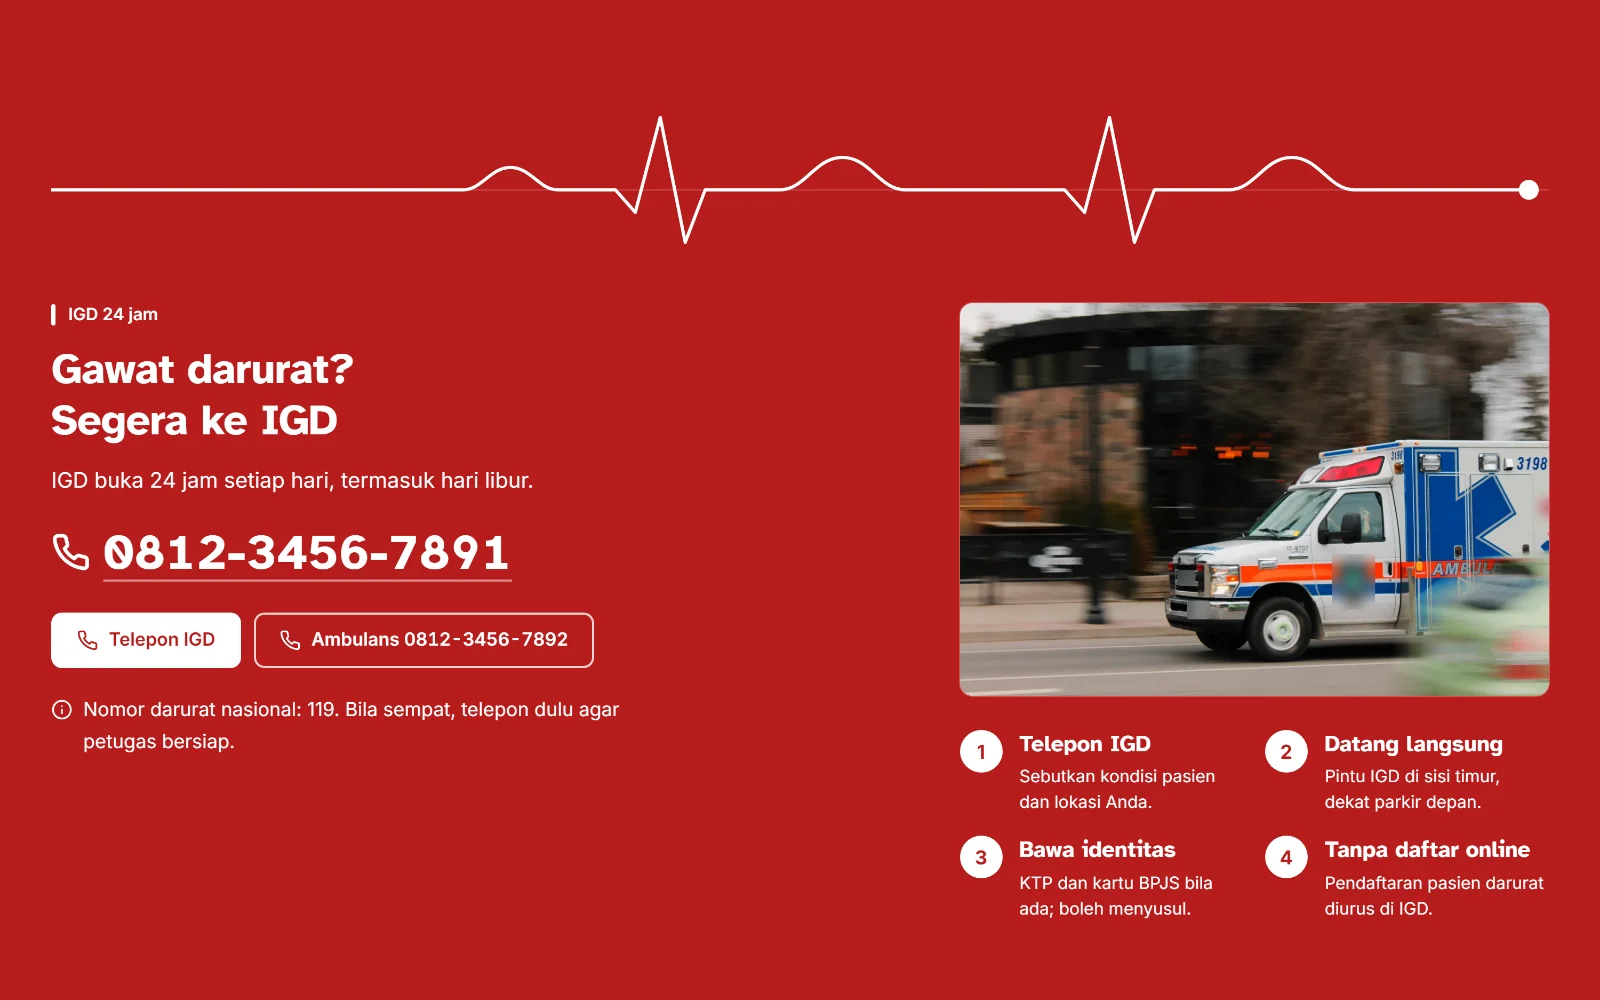
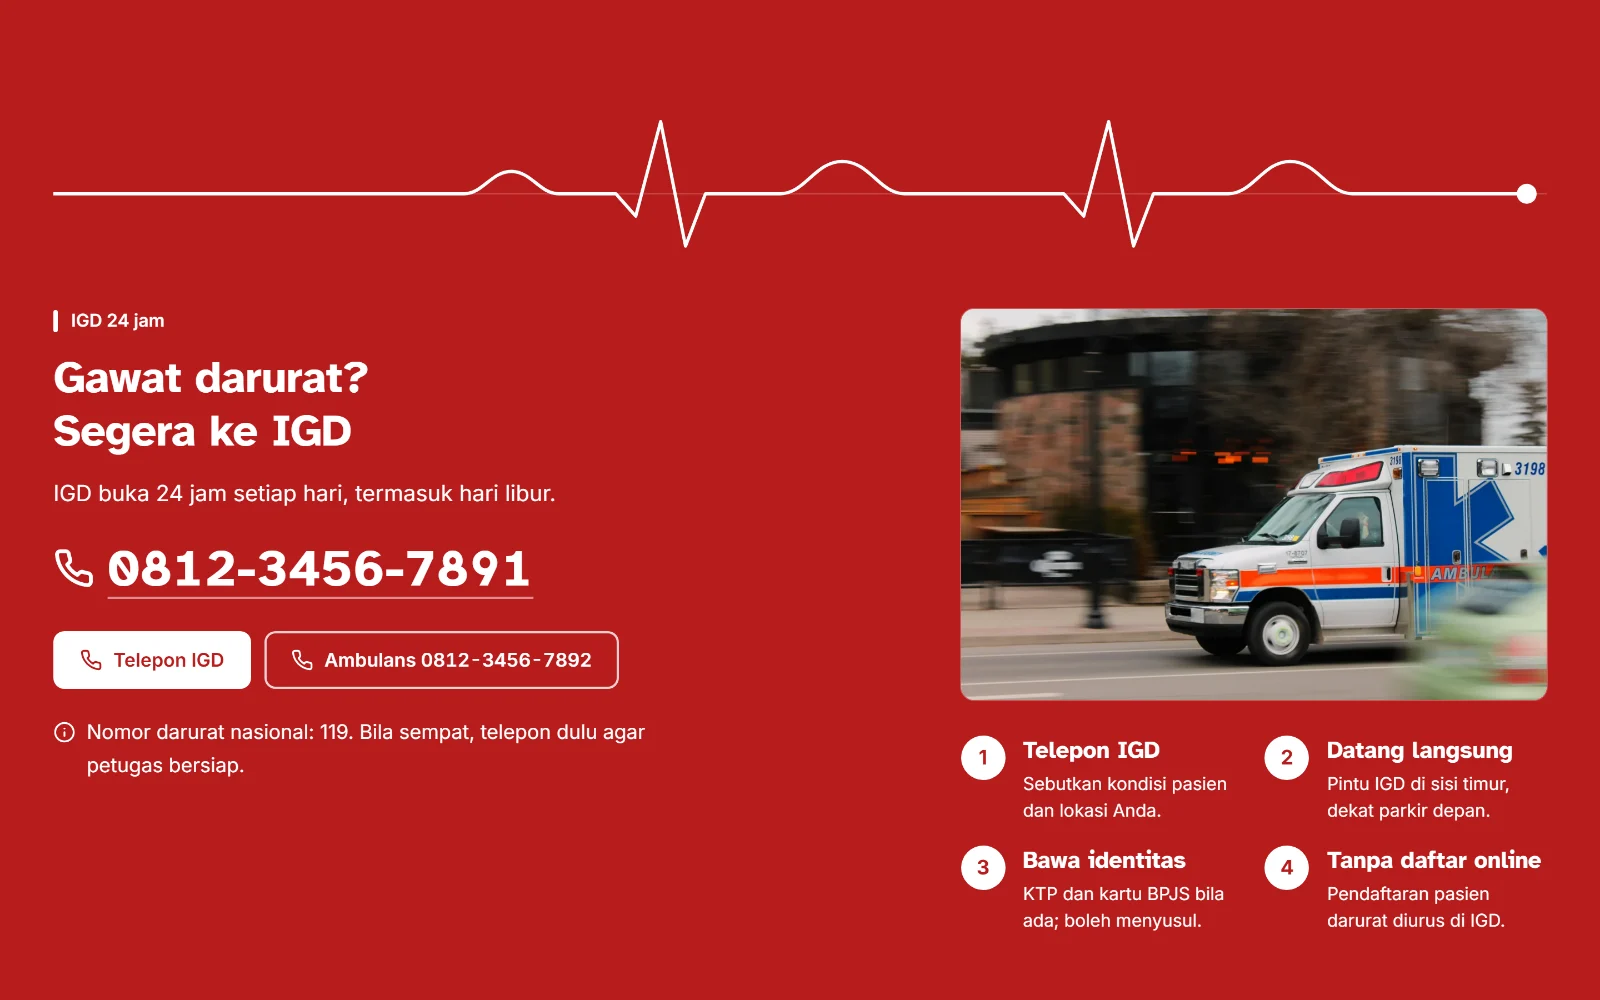
fix(templates): clone retouches instead of blur smudges in five photo-hero templates
Logos and brand text in some demo photos had been hidden with blur patches, which read as
smudges on screen. They are now removed with clone retouches from the original Unsplash photos,
with the same crop and colour:

- Sparring Padel: tournament photo (shirt print, shirt logo, racket stripes), gallery smash
  (banner, post lettering, shorts print) and gallery serve (racket frame text).
- PayNow: hero (T-shirt lettering) and security photo (music app icon on the phone screen).
- SpecialistPlus: CT (injector brand, jacket emblem, wristband number) and lab (scanner logo,
  analyser label).
- MediCare General: ambulance, class 1 and class 2 wards, radiology.
- SmashHall: court (wall banner) and training gallery photo (event banner).

The retouched photos use new `-v2` file names, because Cloudflare keeps each image URL for
30 days. The old files stay for site content that still links them. The MediCare catalog gallery
image (IGD band) is recaptured with the clean ambulance under its existing name.

diff --git a/src/templates/paynow/photos.ts b/src/templates/paynow/photos.ts
@@ -1,6 +1,7 @@
 // Registry foto demo PayNow (dompet digital & payment gateway fiktif). Semua foto asli dari Unsplash (Unsplash License,
-// bukan Unsplash+), WebP teroptimasi, kredit di public/assets/templates/photos/CREDITS.md (section "PayNow"). Merek
-// bank/e-wallet/kartu dan kode QR asli yang masih terbaca dikaburkan atau dipotong; foto TIDAK diubah ke SVG.
+// bukan Unsplash+), WebP teroptimasi, kredit di public/assets/templates/photos/CREDITS.md (section "PayNow"). Tulisan
+// di kaus (hero) dan ikon aplikasi musik di layar HP (keamanan) dihapus dengan retus klon (tanpa noda blur); merek
+// bank/e-wallet/kartu dan kode QR asli yang masih terbaca dipotong; foto TIDAK diubah ke SVG.
 //
 // Konvensi file (kit/photos.ts):
 //   hero          → `<kunci>-1920.webp` + `-1280.webp` + `-800.webp` (16:9 1920×1080, latar di bawah lapisan gradasi)
@@ -12,7 +13,7 @@ import { definePhotos, type KitPhotoSpec, type PhotoSet } from '../kit/photos';
 
 const DIR = '/assets/templates/photos';
 
-const HERO: readonly KitPhotoSpec[] = [['paynow-hero', 1920, 1080, 'Perempuan memeriksa ponsel di depan kios makanan yang terang pada malam hari']];
+const HERO: readonly KitPhotoSpec[] = [['paynow-hero-v2', 1920, 1080, 'Perempuan memeriksa ponsel di depan kios makanan yang terang pada malam hari']];
 
 const BASE = definePhotos({
   scenes: [
@@ -20,7 +21,7 @@ const BASE = definePhotos({
     ['paynow-transfer', 960, 1200, 'Empat perempuan berkerudung melihat layar ponsel bersama-sama'],
     ['paynow-tagihan', 960, 1200, 'Perempuan berkacamata duduk santai di kursi sambil memegang ponsel di depan rak buku'],
     ['paynow-topup', 960, 1200, 'Perempuan berkacamata tertawa sambil melihat layar ponselnya di luar ruangan'],
-    ['paynow-keamanan', 960, 1200, 'Tangan memegang ponsel dengan layar kunci menyala di tengah lampu kota malam hari'],
+    ['paynow-keamanan-v2', 960, 1200, 'Tangan memegang ponsel dengan layar kunci menyala di tengah lampu kota malam hari'],
     ['paynow-unduh', 960, 1200, 'Perempuan berkerudung tersenyum memegang ponsel dan minuman di bawah lampion merah'],
     ['paynow-kopi', 1200, 800, 'Barista menuangkan susu ke gelas kopi di samping mesin espreso'],
     ['paynow-warung', 1200, 800, 'Beberapa perempuan berkerudung makan dan membayar di warung makan pinggir jalan'],
@@ -60,5 +61,5 @@ export const PAYNOW_PHOTOS: PhotoSet = Object.freeze({
   keys: Object.freeze([...HERO.map((spec) => spec[0]), ...BASE.keys]),
 });
 
-/** Path foto demo untuk defaultContent, mis. `paynowPhoto('hero')` → `/assets/templates/photos/paynow-hero-1920.webp`. */
+/** Path foto demo untuk defaultContent, mis. `paynowPhoto('hero-v2')` → `/assets/templates/photos/paynow-hero-v2-1920.webp`. */
 export const paynowPhoto = (name: string): string => PAYNOW_PHOTOS.src(`paynow-${name}`);

diff --git a/src/templates/medicare-general/photos.ts b/src/templates/medicare-general/photos.ts
@@ -1,7 +1,9 @@
 // Registry foto demo MediCare General (RS MediCare General, rumah sakit umum fiktif di Semarang). Semua foto asli dari
 // Unsplash (Unsplash License, bukan Unsplash+), WebP teroptimasi, kredit di public/assets/templates/photos/CREDITS.md
 // (section "MediCare General"). Tanpa nama/merek rumah sakit yang terbaca, tanpa pasien yang tampak kesakitan, tanpa
-// jarum atau darah. Dokter di demo TIDAK diberi foto (inisial saja); orang di foto bukan tokoh di demo.
+// jarum atau darah. Dokter di demo TIDAK diberi foto (inisial saja); orang di foto bukan tokoh di demo. Merek di foto
+// IGD, kamar kelas 1 & 2, dan radiologi dihapus dengan retus klon (tanpa blur, kunci `-v2`: Cloudflare menyimpan tiap
+// URL gambar 30 hari, file lama tetap ada).
 //
 // Konvensi file (kit/photos.ts):
 //   hero      → `<kunci>-1920.webp` + `-1280.webp` + `-800.webp` (16:9 1920×1080; layar lebar menutupi seluruh hero,
@@ -19,14 +21,14 @@ const HERO: readonly KitPhotoSpec[] = [
 const BASE = definePhotos({
   scenes: [
     ['medicare-general-pendaftaran', 1200, 800, 'Ruang tunggu dengan sofa biru toska dan jendela loket pendaftaran'],
-    ['medicare-general-igd', 1200, 800, 'Ambulans putih bergaris oranye dan biru melaju di jalan kota'],
+    ['medicare-general-igd-v2', 1200, 800, 'Ambulans putih bergaris oranye dan biru melaju di jalan kota'],
     ['medicare-general-kamar-vvip', 1200, 800, 'Kamar rawat inap dengan ranjang pasien, meja kerja, dan lukisan di dinding'],
     ['medicare-general-kamar-vip', 1200, 800, 'Kamar rawat inap satu ranjang dengan sofa biru untuk penunggu pasien'],
-    ['medicare-general-kamar-kelas-1', 1200, 800, 'Kamar rawat inap dengan ranjang pasien dan monitor di dinding biru'],
-    ['medicare-general-kamar-kelas-2', 1200, 800, 'Ruang rawat inap dengan tiga ranjang pasien dan lantai biru'],
+    ['medicare-general-kamar-kelas-1-v2', 1200, 800, 'Kamar rawat inap dengan ranjang pasien dan monitor di dinding biru'],
+    ['medicare-general-kamar-kelas-2-v2', 1200, 800, 'Ruang rawat inap dengan tiga ranjang pasien dan lantai biru'],
     ['medicare-general-kamar-kelas-3', 1200, 800, 'Bangsal rawat inap dengan deretan ranjang dan tirai merah muda'],
     ['medicare-general-lab', 1200, 800, 'Laboratorium dengan deretan alat analisis dan seorang petugas berjas putih'],
-    ['medicare-general-radiologi', 1200, 800, 'Ruang pemeriksaan dengan mesin pemindai berbentuk cincin dan meja pasien'],
+    ['medicare-general-radiologi-v2', 1200, 800, 'Ruang pemeriksaan dengan mesin pemindai berbentuk cincin dan meja pasien'],
     ['medicare-general-farmasi', 1200, 800, 'Apoteker mengambil kotak obat dari rak di instalasi farmasi'],
     ['medicare-general-gedung', 1200, 800, 'Gedung rumah sakit bata merah dengan kanopi pintu masuk di bawah langit biru'],
   ],

diff --git a/src/templates/__tests__/paynow.test.tsx b/src/templates/__tests__/paynow.test.tsx
@@ -181,7 +181,7 @@ describe('PayNow: skema & konten bawaan', () => {
     expect(c.brand.logo).toBe('');
     expect(c.brand.accent_color).toBe('#4B3FE4');
     expect(c.contact.whatsapp).toBe('081234567890');
-    expect(c.hero.image).toBe('/assets/templates/photos/paynow-hero-1920.webp');
+    expect(c.hero.image).toBe('/assets/templates/photos/paynow-hero-v2-1920.webp');
     for (const s of def.sections) if (s.key !== 'brand') expect(c[s.key].enabled, s.key).toBe(true);
     const photos = JSON.stringify(c).match(/\/assets\/templates\/photos\/[a-z0-9-]+\.webp/g) ?? [];
     for (const src of photos) expect(PAYNOW_PHOTOS.asset(src), src).not.toBeNull();
@@ -219,7 +219,7 @@ describe('PayNow: skema & konten bawaan', () => {
 
   it('foto demo ringan: hero 800/1280/1920, WebP ≤ 140 KB per file, 800w ≤ 90 KB, total ≤ 2,5 MB', () => {
     expect(PAYNOW_PHOTOS.asset(def.defaultContent.hero.image as string)!.srcSet).toBe(
-      '/assets/templates/photos/paynow-hero-800.webp 800w, /assets/templates/photos/paynow-hero-1280.webp 1280w, /assets/templates/photos/paynow-hero-1920.webp 1920w',
+      '/assets/templates/photos/paynow-hero-v2-800.webp 800w, /assets/templates/photos/paynow-hero-v2-1280.webp 1280w, /assets/templates/photos/paynow-hero-v2-1920.webp 1920w',
     );
     let total = 0;
     for (const key of PAYNOW_PHOTOS.keys) {
@@ -565,7 +565,7 @@ describe('PayNow: demo', () => {
     expect(text(hero.querySelector('h1'))).toBe('Bayar apa saja, cukup dari satu aplikasi');
     expect(text(hero.querySelector('h1 span'))).toBe('satu aplikasi');
     const img = hero.querySelector<HTMLImageElement>('img[fetchpriority="high"]')!;
-    expect(img.getAttribute('src')).toBe('/assets/templates/photos/paynow-hero-1920.webp');
+    expect(img.getAttribute('src')).toBe('/assets/templates/photos/paynow-hero-v2-1920.webp');
     expect(img.getAttribute('srcset')).toContain(' 800w');
     expect(img.getAttribute('srcset')).toContain(' 1280w');
     expect(img.getAttribute('srcset')).toContain(' 1920w');
@@ -605,7 +605,7 @@ describe('PayNow: demo', () => {
     expect(within(hero).getByRole('link', { name: 'Unduh aplikasi' })).toHaveAttribute('href', '#download');
     expect(within(hero).getByRole('link', { name: 'Untuk merchant' })).toHaveAttribute('href', '#fees');
     const eager = Array.from(container.querySelectorAll('img')).filter((i) => i.getAttribute('loading') !== 'lazy');
-    expect(eager.map((i) => i.getAttribute('src'))).toEqual(['/assets/templates/photos/paynow-hero-1920.webp']);
+    expect(eager.map((i) => i.getAttribute('src'))).toEqual(['/assets/templates/photos/paynow-hero-v2-1920.webp']);
     expect(container.querySelectorAll('img[fetchpriority="high"]')).toHaveLength(1);
   });
 

diff --git a/src/templates/smashhall/photos.ts b/src/templates/smashhall/photos.ts
@@ -1,8 +1,8 @@
 // Registry foto demo SmashHall (GOR SmashHall, GOR & klub badminton FIKTIF di Bandung). Semua foto asli dari Unsplash
 // (Unsplash License, bukan Unsplash+), WebP teroptimasi, kredit di public/assets/templates/photos/CREDITS.md (section
-// "SmashHall"). Logo merek, bendera, dan papan tulisan di foto hero & anak dihapus dengan retus klon (tanpa noda blur);
-// di foto lain tulisan spanduk/logo yang masih terbaca dikaburkan saat dipotong. Foto hero dicerminkan agar pemain
-// berada di sisi kanan (teks hero di kiri).
+// "SmashHall"). Logo merek, bendera, dan papan tulisan di foto hero, anak, dan galeri latihan, serta spanduk di dinding
+// foto lapangan dan galeri latihan dihapus dengan retus klon (tanpa noda blur); di foto lain tulisan/logo kecil yang
+// masih terbaca dikaburkan saat dipotong. Foto hero dicerminkan agar pemain berada di sisi kanan (teks hero di kiri).
 //
 // Konvensi file (kit/photos.ts):
 //   hero          → `<kunci>-1920.webp` + `-1280.webp` + `-800.webp` (16:9 1920×1080)
@@ -19,7 +19,7 @@ const HERO: readonly KitPhotoSpec[] = [
 
 const BASE = definePhotos({
   scenes: [
-    ['smashhall-lapangan', 1200, 900, 'Deretan lapangan bulu tangkis indoor berlantai biru dengan net terpasang di gedung berdinding biru muda'],
+    ['smashhall-lapangan-v2', 1200, 900, 'Deretan lapangan bulu tangkis indoor berlantai biru dengan net terpasang di gedung berdinding biru muda'],
     ['smashhall-anak-v2', 1200, 900, 'Dua anak laki-laki memegang raket bersiap bermain bulu tangkis di lapangan hijau'],
     ['smashhall-remaja', 1200, 900, 'Remaja putri berkacamata menjangkau kok dengan raket di lapangan bulu tangkis indoor'],
     ['smashhall-dewasa', 1200, 900, 'Empat orang dewasa bermain ganda bulu tangkis di lapangan biru dalam gedung'],
@@ -31,7 +31,7 @@ const BASE = definePhotos({
     ['smashhall-galeri-smash', 1600, 900, 'Pemain bulu tangkis melompat tinggi untuk smash di lapangan indoor yang gelap'],
     ['smashhall-galeri-raket', 1200, 800, 'Dua pemain muda di lapangan hijau terlihat dari balik bingkai raket'],
     ['smashhall-galeri-net', 1200, 800, 'Kok putih tersangkut di bibir net dengan lapangan biru di latar belakang'],
-    ['smashhall-galeri-latihan', 1200, 800, 'Pemain pria menjangkau kok di atas kepala saat latihan di gedung bulu tangkis'],
+    ['smashhall-galeri-latihan-v2', 1200, 800, 'Pemain pria menjangkau kok di atas kepala saat latihan di gedung bulu tangkis'],
     ['smashhall-galeri-senar', 1200, 800, 'Tangan menggenggam raket bulu tangkis merah di atas lantai kayu lapangan'],
   ],
 });

diff --git a/src/templates/sparring-padel/photos.ts b/src/templates/sparring-padel/photos.ts
@@ -1,7 +1,9 @@
 // Registry foto demo Sparring Padel (klub padel fiktif di Kemang, Jakarta Selatan). Semua foto asli dari Unsplash
 // (Unsplash License, bukan Unsplash+), WebP teroptimasi, kredit di public/assets/templates/photos/CREDITS.md (section
 // "Sparring Padel"). Merek yang terbaca (muka raket, spanduk, sablon kaus/celana, bola) dikaburkan saat dipotong; muka
-// raket di hero dan Court 3–4 ditutup bidang raket polos gelap berlubang (tidak tampak seperti cakram abu-abu).
+// raket di hero dan Court 3–4 ditutup bidang raket polos gelap berlubang (tidak tampak seperti cakram abu-abu). Foto
+// turnamen, smash, dan servis memakai kunci `-v2`: mereknya dihapus dengan retus klon (tanpa blur); nama baru karena
+// Cloudflare menyimpan tiap URL gambar 30 hari, file lama tetap ada untuk konten situs yang masih menautnya.
 //
 // Konvensi file (kit/photos.ts):
 //   hero          → `<kunci>-1920.webp` + `-1280.webp` + `-800.webp` (16:9 1920×1080; pemain di sepertiga kanan, jadi
@@ -24,11 +26,11 @@ const BASE = definePhotos({
     ['sparring-padel-court-classic', 1200, 800, 'Pemain padel pria bersiap memukul bola di lapangan indoor biru'],
     ['sparring-padel-court-open', 1200, 800, 'Lapangan padel outdoor biru berdinding kaca dan jaring di siang hari'],
     ['sparring-padel-court-rooftop', 1200, 800, 'Lapangan padel merah beratap membran di atap gedung kota'],
-    ['sparring-padel-match', 960, 1200, 'Empat pemain padel bersalaman di net setelah pertandingan'],
+    ['sparring-padel-match-v2', 960, 1200, 'Empat pemain padel bersalaman di net setelah pertandingan'],
     ['sparring-padel-rental', 960, 1200, 'Bola padel kuning di lantai biru dengan bayangan jaring'],
     ['sparring-padel-night', 1600, 900, 'Deretan lapangan padel biru dilihat dari udara pada malam hari'],
-    ['sparring-padel-galeri-smash', 960, 1200, 'Pemain padel melompat untuk smash di lapangan indoor'],
-    ['sparring-padel-galeri-serve', 960, 1200, 'Pemain padel melempar bola untuk servis di depan net'],
+    ['sparring-padel-galeri-smash-v2', 960, 1200, 'Pemain padel melompat untuk smash di lapangan indoor'],
+    ['sparring-padel-galeri-serve-v2', 960, 1200, 'Pemain padel melempar bola untuk servis di depan net'],
     ['sparring-padel-galeri-rally', 960, 1200, 'Gerak kabur pemain padel berlari mengejar bola di lapangan biru'],
     ['sparring-padel-galeri-blur', 1200, 800, 'Pemain padel bergerak cepat di lapangan indoor pada malam hari'],
     ['sparring-padel-galeri-mabar', 1200, 800, 'Dua pemain padel berdiri di dekat net dengan raket dan bola'],

diff --git a/src/templates/specialistplus/photos.ts b/src/templates/specialistplus/photos.ts
@@ -1,7 +1,9 @@
 // Registry foto demo SpecialistPlus (SpecialistPlus Medical Center, pusat klinik spesialis & laboratorium fiktif di
 // Medan). Semua foto asli dari Unsplash (Unsplash License, bukan Unsplash+), WebP teroptimasi, kredit di
-// public/assets/templates/photos/CREDITS.md (section "SpecialistPlus"). Tulisan merek alat (MRI, injektor CT, ruang
-// kateterisasi, alat lab) dikaburkan (blur lokal) saat dipotong. Tanpa pasien dalam keadaan darurat, darah, atau jarum.
+// public/assets/templates/photos/CREDITS.md (section "SpecialistPlus"). Tulisan merek alat MRI dan ruang kateterisasi
+// dikaburkan (blur lokal) saat dipotong; merek di foto CT scan dan lab otomatis dihapus dengan retus klon (tanpa blur,
+// kunci `-v2`: Cloudflare menyimpan tiap URL gambar 30 hari, file lama tetap ada). Tanpa pasien dalam keadaan darurat,
+// darah, atau jarum.
 //
 // Konvensi file (kit/photos.ts):
 //   hero      → `<kunci>-1920.webp` + `-1280.webp` + `-800.webp` (16:9 1920×1080; foto latar selebar hero)
@@ -19,10 +21,10 @@ const HERO: readonly KitPhotoSpec[] = [
 const BASE = definePhotos({
   scenes: [
     ['specialistplus-mri', 1200, 900, 'Mesin MRI di ruang radiologi dengan lampu periksa di langit-langit'],
-    ['specialistplus-ct', 1200, 900, 'Petugas radiologi menyiapkan pasien yang berbaring di meja CT scan'],
+    ['specialistplus-ct-v2', 1200, 900, 'Petugas radiologi menyiapkan pasien yang berbaring di meja CT scan'],
     ['specialistplus-cathlab', 1200, 900, 'Ruang kateterisasi jantung dengan lengan C, meja pasien, dan deretan monitor'],
     ['specialistplus-mammografi', 1200, 900, 'Petugas tersenyum mendampingi pasien saat pemeriksaan mammografi'],
-    ['specialistplus-lab', 1200, 900, 'Alat analisis laboratorium otomatis berpenutup bening dengan layar monitor'],
+    ['specialistplus-lab-v2', 1200, 900, 'Alat analisis laboratorium otomatis berpenutup bening dengan layar monitor'],
     ['specialistplus-jantung', 1200, 900, 'Kertas rekaman EKG dengan garis irama jantung di atas kisi biru'],
     ['specialistplus-ortopedi', 1200, 900, 'Model tulang belakang manusia dengan bantalan sendi berwarna kuning dan merah'],
     ['specialistplus-onkologi', 1200, 900, 'Mesin terapi radiasi dan meja pasien di ruang berlantai kayu'],

diff --git a/src/templates/medicare-general/defaultContent.ts b/src/templates/medicare-general/defaultContent.ts
@@ -130,7 +130,7 @@ export const medicareContent: SiteContent = {
         title: 'Radiologi',
         text: 'Rontgen dan USG dengan surat permintaan dari dokter.',
         hours: 'Senin–Sabtu 07.00–21.00',
-        image: medicarePhoto('radiologi'),
+        image: medicarePhoto('radiologi-v2'),
       },
       {
         title: 'Farmasi',
@@ -148,7 +148,7 @@ export const medicareContent: SiteContent = {
     call_label: 'Telepon IGD',
     ambulance_label: 'Ambulans',
     note: 'Nomor darurat nasional: 119. Bila sempat, telepon dulu agar petugas bersiap.',
-    image: medicarePhoto('igd'),
+    image: medicarePhoto('igd-v2'),
     steps: [
       { title: 'Telepon IGD', text: 'Sebutkan kondisi pasien dan lokasi Anda.' },
       { title: 'Datang langsung', text: 'Pintu IGD di sisi timur, dekat parkir depan.' },
@@ -178,13 +178,13 @@ export const medicareContent: SiteContent = {
         name: 'Kelas 1',
         capacity: '2 pasien per kamar',
         facilities: 'Kamar mandi dalam · AC · TV · Tirai pemisah · Kursi penunggu',
-        image: medicarePhoto('kamar-kelas-1'),
+        image: medicarePhoto('kamar-kelas-1-v2'),
       },
       {
         name: 'Kelas 2',
         capacity: '3 pasien per kamar',
         facilities: 'Kamar mandi dalam · AC · Tirai pemisah · Kursi penunggu',
-        image: medicarePhoto('kamar-kelas-2'),
+        image: medicarePhoto('kamar-kelas-2-v2'),
       },
       {
         name: 'Kelas 3',

diff --git a/src/templates/sparring-padel/defaultContent.ts b/src/templates/sparring-padel/defaultContent.ts
@@ -133,7 +133,7 @@ export const sparringContent: SiteContent = {
     eyebrow: 'Turnamen',
     title: 'Turnamen bulan ini',
     subtitle: 'Format Americano, Mexicano, dan liga ganda untuk berbagai level.',
-    image: sparringPhoto('match'),
+    image: sparringPhoto('match-v2'),
     button_label: 'Daftar',
     note: 'Jadwal turnamen contoh; pendaftaran dikonfirmasi admin lewat WhatsApp.',
     items: [
@@ -189,12 +189,12 @@ export const sparringContent: SiteContent = {
     title: 'Suasana di lapangan',
     subtitle: '',
     items: [
-      { image: sparringPhoto('galeri-smash'), caption: 'Smash di Court 3' },
+      { image: sparringPhoto('galeri-smash-v2'), caption: 'Smash di Court 3' },
       { image: sparringPhoto('galeri-blur'), caption: 'Reli malam di lapangan indoor' },
       { image: sparringPhoto('galeri-mabar'), caption: 'Jeda di net sebelum set berikutnya' },
       { image: sparringPhoto('galeri-rally'), caption: 'Mabar Jumat malam' },
       { image: sparringPhoto('galeri-bola'), caption: 'Bola siap untuk kelas pemula' },
-      { image: sparringPhoto('galeri-serve'), caption: 'Servis pembuka' },
+      { image: sparringPhoto('galeri-serve-v2'), caption: 'Servis pembuka' },
     ],
   },
   faq: {

diff --git a/src/templates/smashhall/defaultContent.ts b/src/templates/smashhall/defaultContent.ts
@@ -70,7 +70,7 @@ export const smashhallContent: SiteContent = {
     eyebrow: 'Fasilitas',
     title: 'Lapangan terang, lantai empuk, istirahat nyaman',
     subtitle: 'Delapan lapangan karpet vinyl dengan jarak aman antarlapangan.',
-    image: smashhallPhoto('lapangan'),
+    image: smashhallPhoto('lapangan-v2'),
     stats: [
       { value: '8', label: 'Lapangan karpet vinyl' },
       { value: '12 m', label: 'Tinggi plafon' },
@@ -217,7 +217,7 @@ export const smashhallContent: SiteContent = {
       { image: smashhallPhoto('galeri-smash'), caption: 'Smash di sesi sparing malam' },
       { image: smashhallPhoto('galeri-raket'), caption: 'Pemanasan sebelum latihan ganda' },
       { image: smashhallPhoto('galeri-net'), caption: 'Kok tersangkut di bibir net' },
-      { image: smashhallPhoto('galeri-latihan'), caption: 'Latihan pukulan atas' },
+      { image: smashhallPhoto('galeri-latihan-v2'), caption: 'Latihan pukulan atas' },
       { image: smashhallPhoto('galeri-senar'), caption: 'Siap menerima servis' },
     ],
   },

diff --git a/src/templates/paynow/defaultContent.ts b/src/templates/paynow/defaultContent.ts
@@ -66,7 +66,7 @@ export const paynowContent: SiteContent = {
     secondary_url: '',
     header_label: 'Daftar merchant',
     header_url: '',
-    image: paynowPhoto('hero'),
+    image: paynowPhoto('hero-v2'),
     chips: [{ label: 'PIN & biometrik' }, { label: 'Notifikasi real-time' }, { label: 'Bantuan 24 jam' }],
     app_greeting: 'Halo, Rani',
     balance_label: 'Saldo PayNow',
@@ -179,7 +179,7 @@ export const paynowContent: SiteContent = {
     eyebrow: 'Keamanan',
     title: 'Setiap transaksi dijaga berlapis',
     subtitle: 'Kunci akun tetap di tangan Anda, dan setiap gerakan saldo langsung terlihat.',
-    image: paynowPhoto('keamanan'),
+    image: paynowPhoto('keamanan-v2'),
     badge: 'Masuk dengan sidik jari',
     items: [
       { title: 'PIN 6 digit', text: 'Diminta di setiap pembayaran dan transfer.' },

diff --git a/src/templates/specialistplus/defaultContent.ts b/src/templates/specialistplus/defaultContent.ts
@@ -189,7 +189,7 @@ export const specialistplusContent: SiteContent = {
         name: 'CT scan 128 irisan',
         text: 'Pencitraan cepat untuk kepala, dada, perut, dan pembuluh darah.',
         specs: 'Irisan: 128\nDurasi: 5–15 menit\nLokasi: Lt. 1 · Radiologi',
-        image: spxPhoto('ct'),
+        image: spxPhoto('ct-v2'),
       },
       {
         code: 'CATH',
@@ -210,7 +210,7 @@ export const specialistplusContent: SiteContent = {
         name: 'Lab otomatis',
         text: 'Analisis kimia darah dan hematologi dengan alat otomatis.',
         specs: 'Kapasitas: 400 tes/jam\nJenis tes: 120+\nLokasi: Lt. 1 · Laboratorium',
-        image: spxPhoto('lab'),
+        image: spxPhoto('lab-v2'),
       },
     ],
   },

diff --git a/src/templates/__tests__/specialistplus.test.tsx b/src/templates/__tests__/specialistplus.test.tsx
@@ -78,10 +78,10 @@ const lab = (patch: Partial<LabForm> = {}): LabForm => ({ ...EMPTY_LAB, reg: 'LA
 const PHOTO_KEYS = [
   'specialistplus-hero',
   'specialistplus-mri',
-  'specialistplus-ct',
+  'specialistplus-ct-v2',
   'specialistplus-cathlab',
   'specialistplus-mammografi',
-  'specialistplus-lab',
+  'specialistplus-lab-v2',
   'specialistplus-jantung',
   'specialistplus-ortopedi',
   'specialistplus-onkologi',
